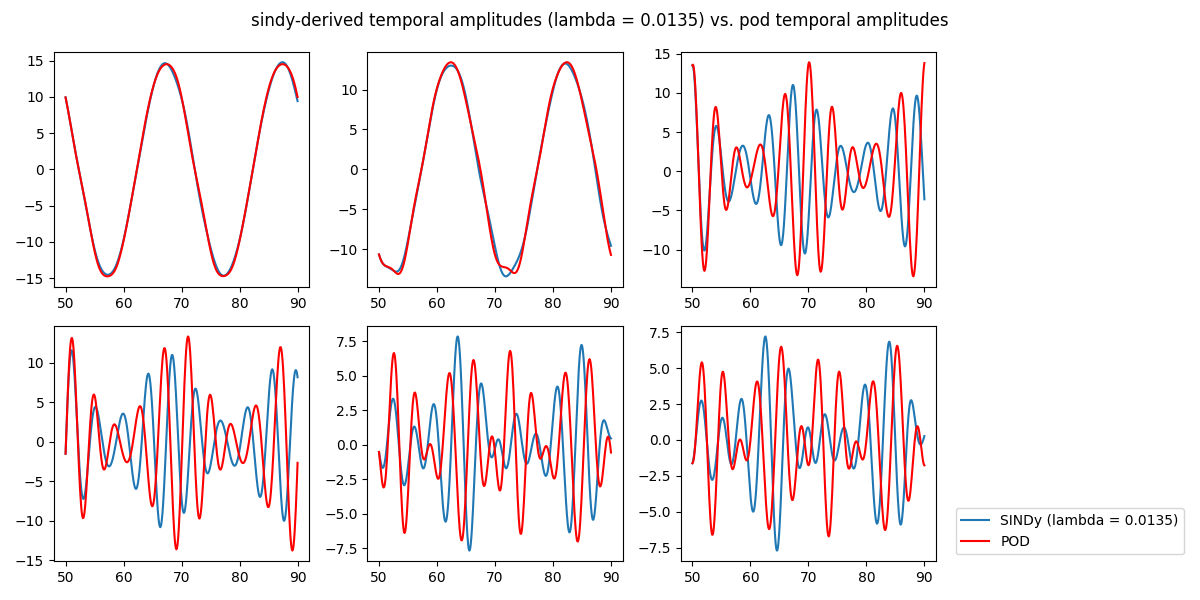
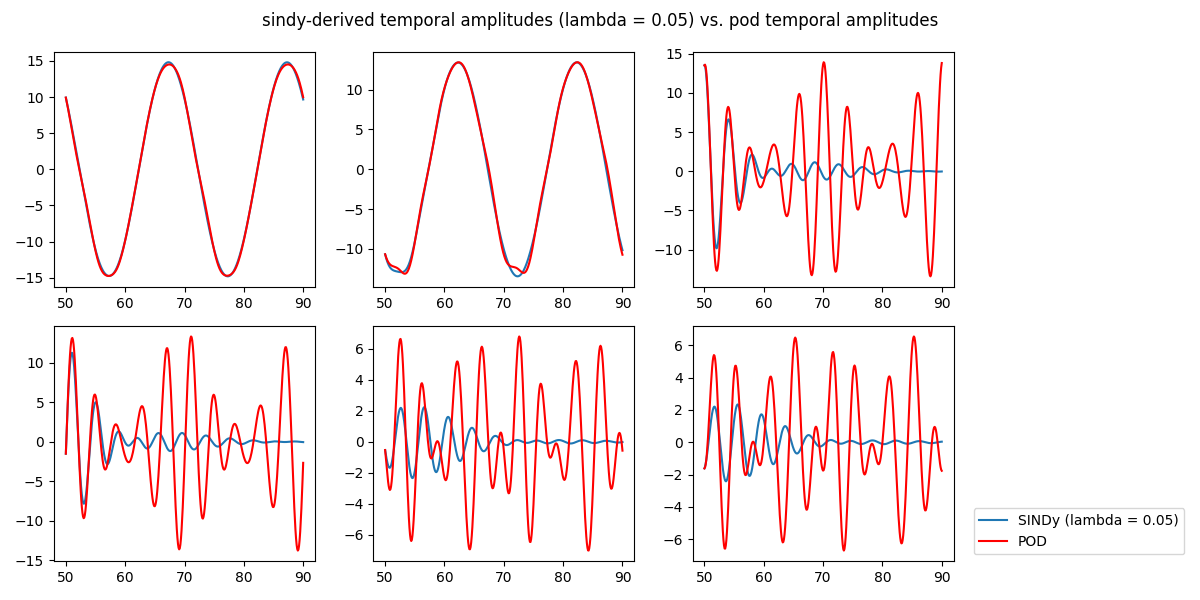
dmd push
need to calculate the stupid amplitudes, but that shouldn't be that hard

also need to implement my quantile alg for colormap in dmd plots

diff --git a/3_airfoilDNS_refactor/dmd_analysis.py b/3_airfoilDNS_refactor/dmd_analysis.py
@@ -4,6 +4,100 @@ import numpy as np
 import matplotlib.pyplot as plt
 from var_import import *
 
-tv = 0 # truncation value
+tv = 75 # truncation value
 
-...
+def calc_DMD(X, tv):
+    X1 = X[:, :-1]
+    X2 = X[:, 1:]
+
+    U1, S1, Vh1 = np.linalg.svd(X1, full_matrices = False)
+
+    U1 = U1[:, :tv]
+    SV1 = np.diag(S1[:tv])
+    Vh1 = Vh1[:tv, :]
+
+    A_tilde = np.linalg.solve(SV1.T, (U1.T @ X2 @ Vh1.T).T).T
+    Lambda, W = np.linalg.eig(A_tilde)
+    Lambda = np.diag(Lambda)
+
+    Phi = X2 @ np.linalg.solve(SV1.T, Vh1).T @ W
+    b = np.linalg.solve(W @ Lambda, SV1 @ Vh1[:, 0])
+
+    sort_inds = np.argsort(np.abs(b))[::-1]
+    b = b[sort_inds]
+    Lambda = np.diag(Lambda)
+    Lambda = Lambda[sort_inds]
+    Phi = Phi[:, sort_inds]
+
+    return A_tilde, Phi, Lambda, b
+
+# can probably put this in a class or something - that's a later problem though
+mean_correction = True
+
+ux_reshaped = np.transpose(ux) # pains translating matlab to py code
+ux_reshaped = ux_reshaped.reshape(nx * ny, nt, order = 'F')
+
+uy_reshaped = np.transpose(uy) # pains translating matlab to py code
+uy_reshaped = uy_reshaped.reshape(nx * ny, nt, order = 'F')
+
+X = np.vstack([ux_reshaped, uy_reshaped])
+
+if mean_correction:
+    X_mean= np.mean(X, axis = 1)
+    X_mean_temp = np.transpose(X_mean) # pains translating matlab to py code
+    X = X - np.reshape(X_mean_temp, (len(X_mean_temp), 1)) * np.ones([1, nt])
+
+A_tilde, Phi, Lambda, b = calc_DMD(X, tv)
+
+Eigscts = np.log(Lambda) / dt_field
+
+plt.stem(np.imag(Eigscts) / (2 * np.pi), abs(b * Lambda) / np.max(abs(b * Lambda)), '-')
+plt.xlim([-0.02, 1.5])
+plt.ylim([0, 1.2])
+plt.xlabel('frequency')
+plt.ylabel('dmd mode amplitude (scaled)')
+plt.suptitle(f'dmd mode amplitudes w/ truncation value {int(tv)}', fontsize = 12)
+plt.savefig('dmd_analysis_figs/mode_amplitudes.png')
+plt.show()
+
+fig, ax1 = plt.subplots(2, 3, figsize = (12, 6))
+
+MM = 0.01
+v = np.arange(-1, 1.1, 0.1)
+
+for k in range(6):
+    ax = ax1.flat[k]
+    k = 2 * k # remove cpx conjugate modes
+    Phi_temp = Phi[int(len(Phi) / 2):, k].reshape(nx, ny, order = 'F')
+    im = ax.contourf(x, y, np.transpose(Phi_temp), levels = MM * v, vmin = -MM, vmax = MM, extend = 'both')
+    ax.plot(xa, ya, 'r-') # plot all airfoil locations
+    ax.set_title(f'frequency = {float(abs(np.imag(Eigscts[k]) / (2 * np.pi))):.5f}')
+    fig.colorbar(im, ax = ax)
+
+fig.suptitle("uy dmd modes", fontsize = 12)
+plt.tight_layout()
+plt.savefig('dmd_analysis_figs/uy_dmd_modes.png')
+plt.show()
+
+fig, ax2 = plt.subplots(2, 3, figsize = (12, 6))
+
+MM = 0.01
+v = np.arange(-1, 1.1, 0.1)
+
+for k in range(6):
+    ax = ax2.flat[k]
+    k = 2 * k # remove cpx conjugate modes
+    Phi_temp = Phi[:int(len(Phi) / 2), k].reshape(nx, ny, order = 'F')
+    im = ax.contourf(x, y, np.transpose(Phi_temp), levels = MM * v, vmin = -MM, vmax = MM, extend = 'both')
+    ax.plot(xa, ya, 'r-') # plot all airfoil locations
+    ax.set_title(f'frequency = {float(abs(np.imag(Eigscts[k]) / (2 * np.pi))):.5f}')
+    fig.colorbar(im, ax = ax)
+
+fig.suptitle("ux dmd modes", fontsize = 12)
+plt.tight_layout()
+plt.savefig('dmd_analysis_figs/ux_dmd_modes.png')
+plt.show()
+
+
+print('peepeepoopoo')
+print('weeweewoowoo')

diff --git a/3_airfoilDNS_refactor/sindy.py b/3_airfoilDNS_refactor/sindy.py
@@ -3,7 +3,7 @@
 import numpy as np
 from scipy.integrate import solve_ivp
 import matplotlib.pyplot as plt
-from var_import import dt_field, t_field
+from var_import import *
 
 # Doing the manual implementation first using Brunton example code, then I'll learn how to use PySINDy
 
@@ -69,7 +69,7 @@ dtempamps = np.diff(tempamps, axis = 0) / dt_field
 dtempamps = np.vstack([dtempamps, dtempamps[399, :]])
 
 Theta = poolData(tempamps, n_tempamps, 2) # because fluids is a quadratic domain
-sparse_knob = 0.0135
+sparse_knob = 0.05
 Xi = sparsifyDynamics(Theta, dtempamps, sparse_knob, n_tempamps)
 print(Xi)
 
@@ -125,7 +125,6 @@ t = [0, 40]
 t_eval = np.linspace(t[0], t[1], 1000) # just to beef up resolution of solve_ivp
 
 sol = solve_ivp(idd_system, t, x0, t_eval = t_eval)
-print(sol)
 
 fig, ax1 = plt.subplots(2, 3, figsize = (12, 6))
 
@@ -134,8 +133,8 @@ for k in range(6):
     ax.plot(sol.t + 50, sol.y[k, :])
     ax.plot(t_field, S[k] * V[:, k], 'r-')
 
-fig.suptitle("sindy-derived temporal amplitudes (lambda = 0.0135) vs. pod temporal amplitudes", fontsize = 12)
-plt.legend(['SINDy (lambda = 0.0135)', 'POD'], bbox_to_anchor=(1.05, 0), loc='lower left')
+fig.suptitle(f"sindy-derived temporal amplitudes (lambda = {float(sparse_knob)}) vs. pod temporal amplitudes", fontsize = 12)
+plt.legend([f'SINDy (lambda = {float(sparse_knob)})', 'POD'], bbox_to_anchor=(1.05, 0), loc='lower left')
 plt.tight_layout()
 plt.savefig('sindy_figs/comparison.png')
 plt.show()

diff --git a/2_airfoilDNS/example code/airfoilDNS_read.m b/2_airfoilDNS/example code/airfoilDNS_read.m
@@ -82,6 +82,7 @@ end
 FreqStr = '0p05';
 Freq = 0.05;
 
+BaseAngle = 25;
 filename = fullfile(DIR,['airfoilDNS_a',num2str(BaseAngle),'f',FreqStr,'.h5']);
 
 Cl = h5read(filename,'/Cl'); % lift coefficient
@@ -130,7 +131,7 @@ if meanSub
     data = data-dataMean*ones(1,nt);
 end
 
-r= 100; % optional truncation of SVD (set to 0 for no truncation)
+r= 16; % optional truncation of SVD (set to 0 for no truncation)
 [Phi, Lambda,Atilde,Amplitudes] = calc_dmd(data,r);
 
 Eigscts = log(Lambda)/dt_field; % find eignevalues in continuous time
